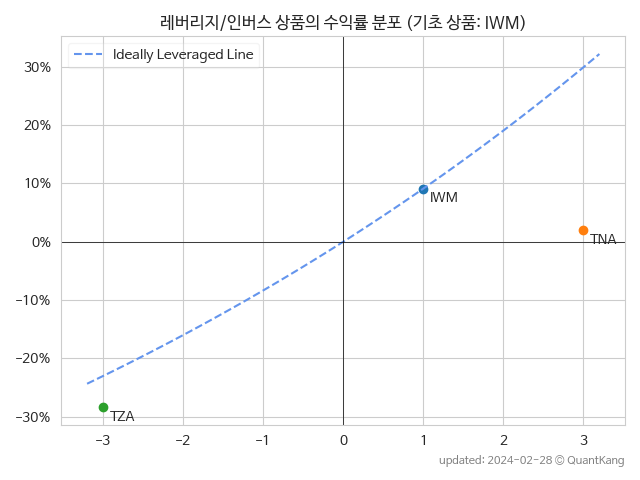
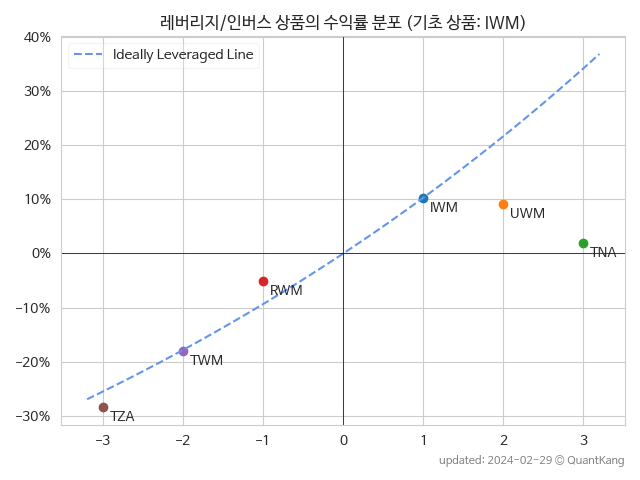
more russel 2000

diff --git a/_posts/lev/2024-02-29-twm.md b/_posts/lev/2024-02-29-twm.md
@@ -1,0 +1,71 @@
+---
+layout: single
+title: TWM 수익률과 비용 (IWM -2x)
+excerpt: TWM의 1년 수익률은 -18.1%, 추정 비용은 0.4%입니다.
+header:
+  overlay_color: "#333"
+  show_overlay_excerpt: false
+toc: true
+categories:
+- 인버스 레버리지
+keywords: IWM, TWM, TWM IWM 비교
+---
+
+## 비교 상품 소개
+
+
+IWM 상품의 일일 수익률을 -2배로 추종하는 TWM 상품의 최근 1년 성과를 살펴봅니다.
+
+
+
+
+
+| **종목** | **1년** | **편차** | **샤프** | **MDD** | **AvDD** |
+| :------------ | ------: | -----------: | -------: | ------: | -------: |
+| TWM | <span style="color: cornflowerblue">-18.1<small>%</small></span> | 40.8<small>%</small> | -0.44 | -38.4<small>%</small> | -15.7<small>%</small> |
+
+<!-- more -->
+
+
+![TWM](/lev/images/twm.png){: .align-center}
+
+
+## 주요 가격 변동 지표<small>[^fn_price_metric]</small>
+
+
+| **종목** | **1년** | **편차** | **샤프** | **MDD** | **AvDD** |
+| :------------ | ------: | -----------: | -------: | ------: | -------: |
+| IWM | <span style="color: tomato">10.3<small>%</small></span> | 20.5<small>%</small> | 0.50 | -18.0<small>%</small> | -6.5<small>%</small> |
+| Ideal<small>[^fn_lev_ideal]</small> | <span style="color: cornflowerblue">-17.8<small>%</small></span> | 40.8<small>%</small> | -0.44 | -37.7<small>%</small> | -15.8<small>%</small> |
+| I. daily<small>[^fn_lev_ideal_daily]</small> | <span style="color: cornflowerblue">-27.6<small>%</small></span> | 41.0<small>%</small> | -0.67 | -41.1<small>%</small> | -17.9<small>%</small> |
+| TWM | <span style="color: cornflowerblue">-18.1<small>%</small></span> | 40.8<small>%</small> | -0.44 | -38.4<small>%</small> | -15.7<small>%</small> |
+
+
+## 추정 비용<small>[^fn_lev_expense]</small><a id="expense"></a>
+
+TWM 상품을 IWM 상품의 -2배 레버리지라 가정하고 분석한 결과입니다.
+
+![TWM](/lev/images/twm_ideal.png){: .align-center}
+
+| **종목** | **변동성비용**[^fn_lev_vd_expense] | **금융비용**[^fn_lev_fn_expense] | **전체비용**[^fn_lev_tt_expense] |
+| :------------ | ------: | -----------: | -------: |
+| TWM | 12.0<small>%</small> | -13.2<small>%</small> | 0.4<small>%</small> |
+
+{% include /commons/ads/adsense.html %}
+
+
+
+## 관련 레버리지/인버스 상품의 수익률 분포
+
+IWM 상품을 기초로 하는 타 레버리지/인버스 상품과 비교합니다.
+
+![IWM](/lev/images/iwm_ideal.png){: .align-center}
+
+{% include lev/iwm_md.inc %}
+
+
+## 관련 정보
+
+- [레버리지/인버스 목록](/lev/){: .btn .btn--info}
+
+{% include commons/footnotes.md %}

diff --git a/_posts/lev/2024-02-29-rwm.md b/_posts/lev/2024-02-29-rwm.md
@@ -1,0 +1,71 @@
+---
+layout: single
+title: RWM 수익률과 비용 (IWM -1x)
+excerpt: RWM의 1년 수익률은 -5.0%, 추정 비용은 -4.8%입니다.
+header:
+  overlay_color: "#333"
+  show_overlay_excerpt: false
+toc: true
+categories:
+- 인버스
+keywords: IWM, RWM, RWM IWM 비교
+---
+
+## 비교 상품 소개
+
+
+IWM 상품의 일일 수익률을 -1배로 추종하는 RWM 상품의 최근 1년 성과를 살펴봅니다.
+
+
+
+
+
+| **종목** | **1년** | **편차** | **샤프** | **MDD** | **AvDD** |
+| :------------ | ------: | -----------: | -------: | ------: | -------: |
+| RWM | <span style="color: cornflowerblue">-5.0<small>%</small></span> | 20.6<small>%</small> | -0.24 | -20.6<small>%</small> | -7.8<small>%</small> |
+
+<!-- more -->
+
+
+![RWM](/lev/images/rwm.png){: .align-center}
+
+
+## 주요 가격 변동 지표<small>[^fn_price_metric]</small>
+
+
+| **종목** | **1년** | **편차** | **샤프** | **MDD** | **AvDD** |
+| :------------ | ------: | -----------: | -------: | ------: | -------: |
+| IWM | <span style="color: tomato">10.3<small>%</small></span> | 20.5<small>%</small> | 0.50 | -18.0<small>%</small> | -6.5<small>%</small> |
+| Ideal<small>[^fn_lev_ideal]</small> | <span style="color: cornflowerblue">-9.3<small>%</small></span> | 20.4<small>%</small> | -0.46 | -21.1<small>%</small> | -8.5<small>%</small> |
+| I. daily<small>[^fn_lev_ideal_daily]</small> | <span style="color: cornflowerblue">-13.1<small>%</small></span> | 20.5<small>%</small> | -0.64 | -22.5<small>%</small> | -9.2<small>%</small> |
+| RWM | <span style="color: cornflowerblue">-5.0<small>%</small></span> | 20.6<small>%</small> | -0.24 | -20.6<small>%</small> | -7.8<small>%</small> |
+
+
+## 추정 비용<small>[^fn_lev_expense]</small><a id="expense"></a>
+
+RWM 상품을 IWM 상품의 -1배 레버리지라 가정하고 분석한 결과입니다.
+
+![RWM](/lev/images/rwm_ideal.png){: .align-center}
+
+| **종목** | **변동성비용**[^fn_lev_vd_expense] | **금융비용**[^fn_lev_fn_expense] | **전체비용**[^fn_lev_tt_expense] |
+| :------------ | ------: | -----------: | -------: |
+| RWM | 4.1<small>%</small> | -9.3<small>%</small> | -4.8<small>%</small> |
+
+{% include /commons/ads/adsense.html %}
+
+
+
+## 관련 레버리지/인버스 상품의 수익률 분포
+
+IWM 상품을 기초로 하는 타 레버리지/인버스 상품과 비교합니다.
+
+![IWM](/lev/images/iwm_ideal.png){: .align-center}
+
+{% include lev/iwm_md.inc %}
+
+
+## 관련 정보
+
+- [레버리지/인버스 목록](/lev/){: .btn .btn--info}
+
+{% include commons/footnotes.md %}

diff --git a/_posts/lev/2024-02-29-uwm.md b/_posts/lev/2024-02-29-uwm.md
@@ -1,0 +1,71 @@
+---
+layout: single
+title: UWM 수익률과 비용 (IWM 2x)
+excerpt: UWM의 1년 수익률은 9.1%, 추정 비용은 10.4%입니다.
+header:
+  overlay_color: "#333"
+  show_overlay_excerpt: false
+toc: true
+categories:
+- 레버리지
+keywords: IWM, UWM, UWM IWM 비교
+---
+
+## 비교 상품 소개
+
+
+IWM 상품의 일일 수익률을 2배로 추종하는 UWM 상품의 최근 1년 성과를 살펴봅니다.
+
+
+
+
+
+| **종목** | **1년** | **편차** | **샤프** | **MDD** | **AvDD** |
+| :------------ | ------: | -----------: | -------: | ------: | -------: |
+| UWM | <span style="color: tomato">9.1<small>%</small></span> | 41.0<small>%</small> | 0.22 | -34.2<small>%</small> | -13.7<small>%</small> |
+
+<!-- more -->
+
+
+![UWM](/lev/images/uwm.png){: .align-center}
+
+
+## 주요 가격 변동 지표<small>[^fn_price_metric]</small>
+
+
+| **종목** | **1년** | **편차** | **샤프** | **MDD** | **AvDD** |
+| :------------ | ------: | -----------: | -------: | ------: | -------: |
+| IWM | <span style="color: tomato">10.3<small>%</small></span> | 20.5<small>%</small> | 0.50 | -18.0<small>%</small> | -6.5<small>%</small> |
+| Ideal<small>[^fn_lev_ideal]</small> | <span style="color: tomato">21.7<small>%</small></span> | 41.1<small>%</small> | 0.53 | -32.7<small>%</small> | -12.3<small>%</small> |
+| I. daily<small>[^fn_lev_ideal_daily]</small> | <span style="color: tomato">16.7<small>%</small></span> | 41.0<small>%</small> | 0.41 | -33.2<small>%</small> | -12.8<small>%</small> |
+| UWM | <span style="color: tomato">9.1<small>%</small></span> | 41.0<small>%</small> | 0.22 | -34.2<small>%</small> | -13.7<small>%</small> |
+
+
+## 추정 비용<small>[^fn_lev_expense]</small><a id="expense"></a>
+
+UWM 상품을 IWM 상품의 2배 레버리지라 가정하고 분석한 결과입니다.
+
+![UWM](/lev/images/uwm_ideal.png){: .align-center}
+
+| **종목** | **변동성비용**[^fn_lev_vd_expense] | **금융비용**[^fn_lev_fn_expense] | **전체비용**[^fn_lev_tt_expense] |
+| :------------ | ------: | -----------: | -------: |
+| UWM | 4.1<small>%</small> | 6.5<small>%</small> | 10.4<small>%</small> |
+
+{% include /commons/ads/adsense.html %}
+
+
+
+## 관련 레버리지/인버스 상품의 수익률 분포
+
+IWM 상품을 기초로 하는 타 레버리지/인버스 상품과 비교합니다.
+
+![IWM](/lev/images/iwm_ideal.png){: .align-center}
+
+{% include lev/iwm_md.inc %}
+
+
+## 관련 정보
+
+- [레버리지/인버스 목록](/lev/){: .btn .btn--info}
+
+{% include commons/footnotes.md %}
